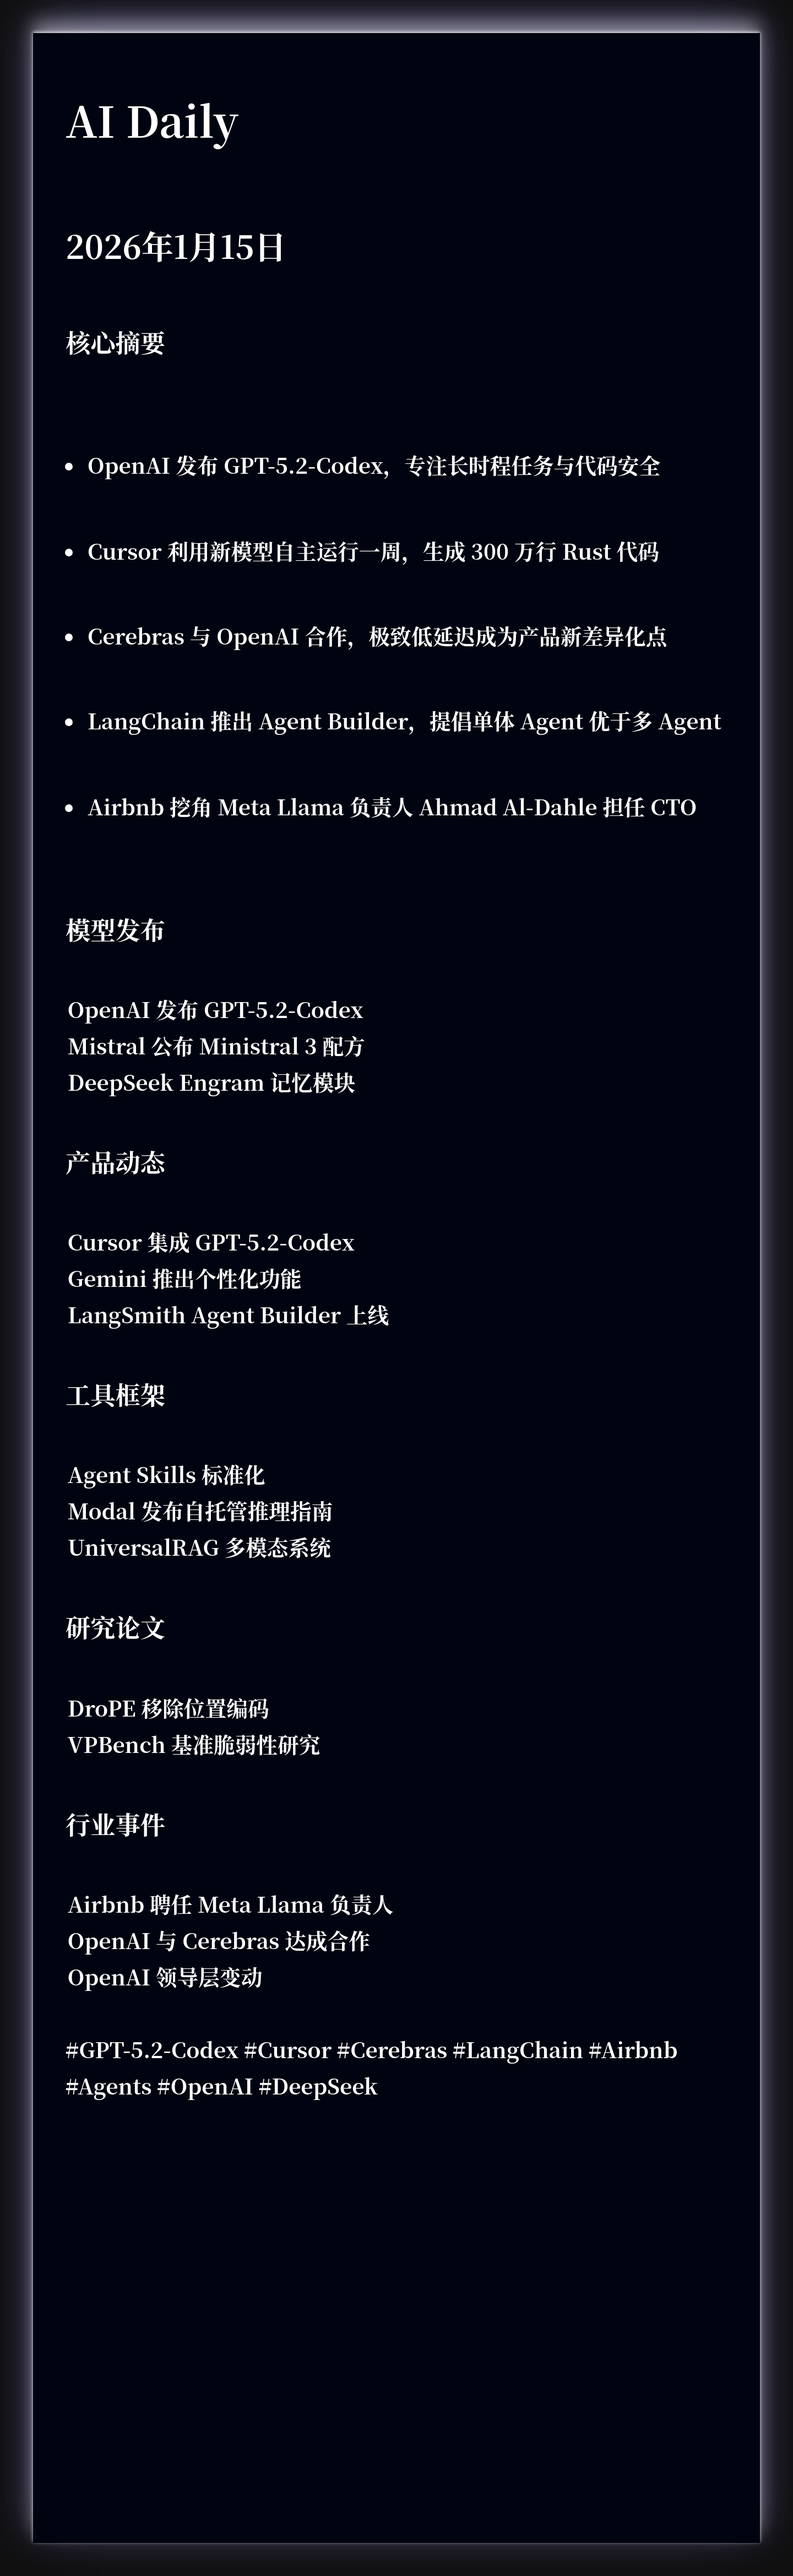
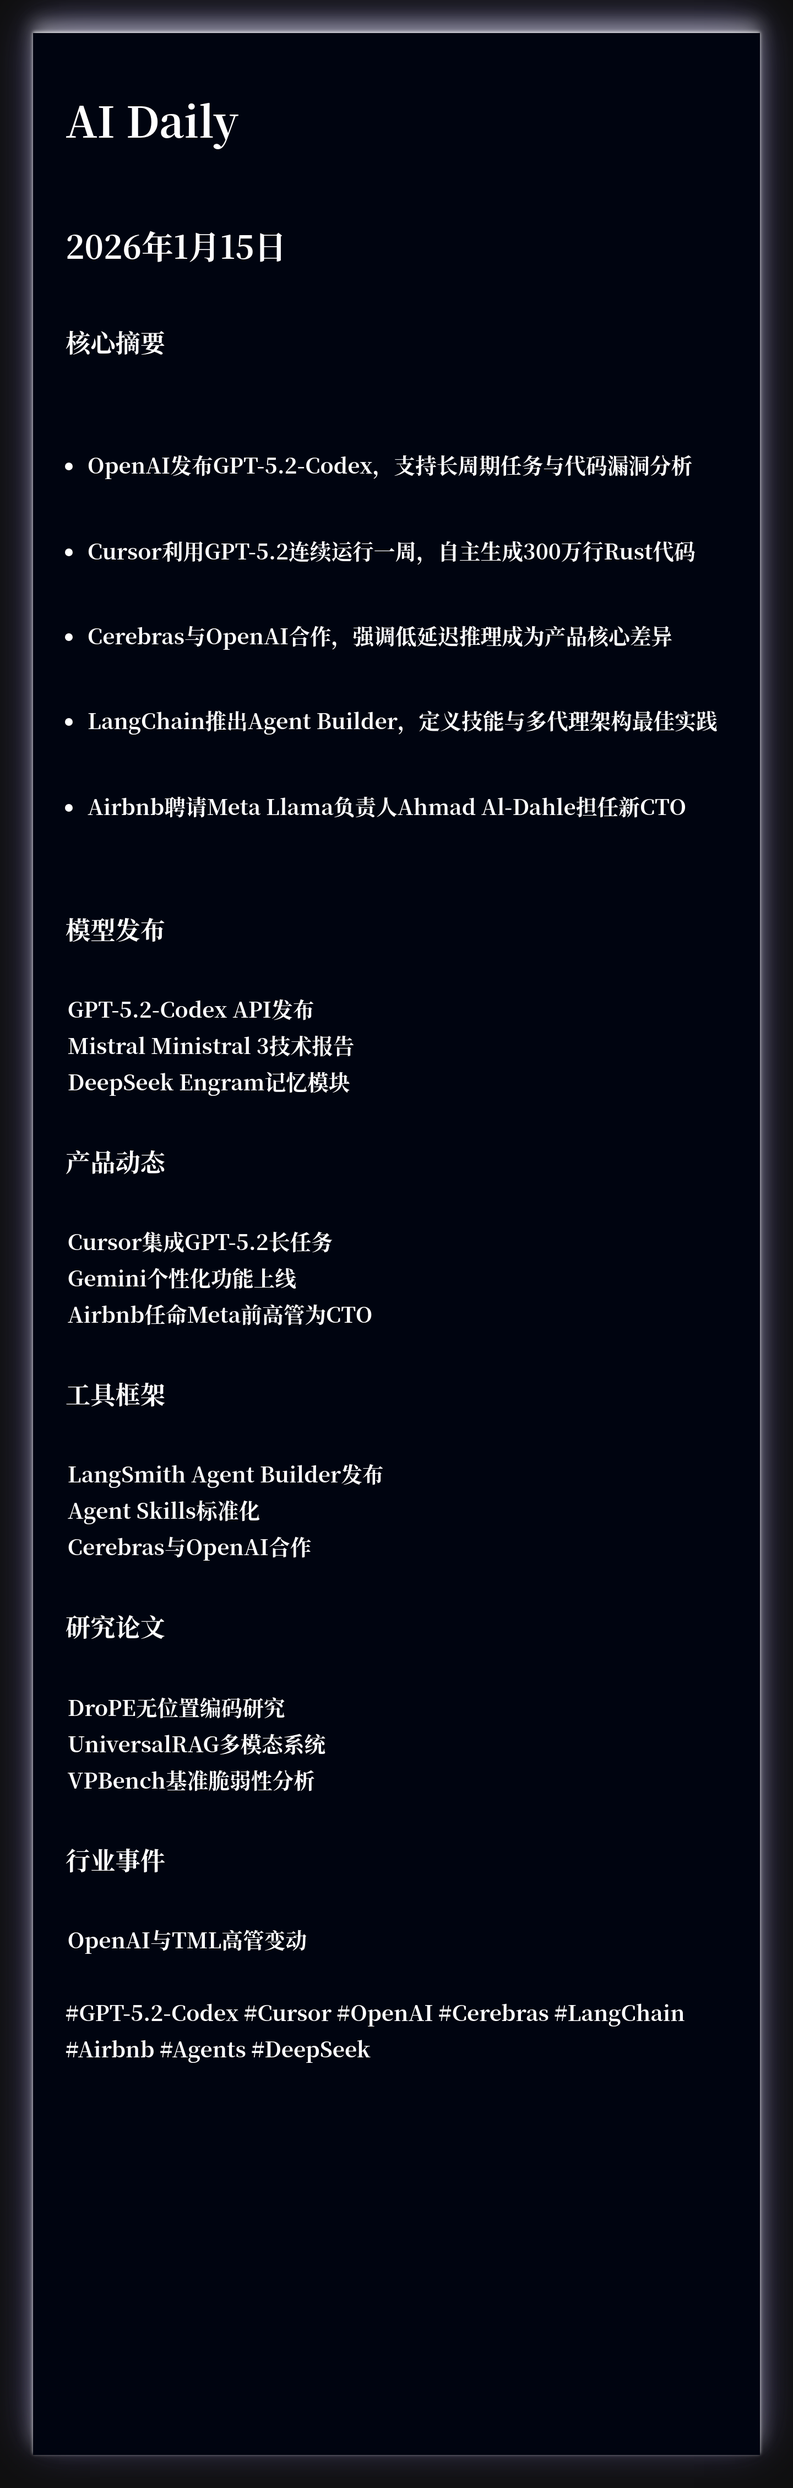
🤖 Auto update AI Daily - {{ date }} e7960c343df8786eb39658cc6d73769d09f1d22b

diff --git a/2026-01-15.html b/2026-01-15.html
@@ -5,7 +5,7 @@
     <meta name="viewport" content="width=device-width, initial-scale=1.0">
     <title>AI Daily · 2026年1月15日 星期四</title>
     <meta name="description" content="每日 AI 前沿资讯，智能分类，快速掌握核心动态">
-    <meta name="keywords" content="GPT-5.2-Codex, Cursor, Cerebras, LangChain, Airbnb, Agents, OpenAI, DeepSeek, Mistral, AI, 人工智能, 机器学习, 深度学习, 资讯, 日报">
+    <meta name="keywords" content="GPT-5.2-Codex, Cursor, OpenAI, Cerebras, LangChain, Airbnb, Agents, DeepSeek, Mistral, Gemini, AI, 人工智能, 机器学习, 深度学习, 资讯, 日报">
     <link rel="stylesheet" href="css/styles.css">
 </head>
 <body data-theme="blue">
@@ -24,11 +24,11 @@
             <section class="summary-card">
                 <h2 class="section-title">📌 今日核心摘要</h2>
                 <ul class="summary-list">
-                <li class="summary-item">OpenAI 发布 GPT-5.2-Codex，专注长时程任务与代码安全</li>
-                <li class="summary-item">Cursor 利用新模型自主运行一周，生成 300 万行 Rust 代码</li>
-                <li class="summary-item">Cerebras 与 OpenAI 合作，极致低延迟成为产品新差异化点</li>
-                <li class="summary-item">LangChain 推出 Agent Builder，提倡单体 Agent 优于多 Agent</li>
-                <li class="summary-item">Airbnb 挖角 Meta Llama 负责人 Ahmad Al-Dahle 担任 CTO</li>
+                <li class="summary-item">OpenAI发布GPT-5.2-Codex，支持长周期任务与代码漏洞分析</li>
+                <li class="summary-item">Cursor利用GPT-5.2连续运行一周，自主生成300万行Rust代码</li>
+                <li class="summary-item">Cerebras与OpenAI合作，强调低延迟推理成为产品核心差异</li>
+                <li class="summary-item">LangChain推出Agent Builder，定义技能与多代理架构最佳实践</li>
+                <li class="summary-item">Airbnb聘请Meta Llama负责人Ahmad Al-Dahle担任新CTO</li>
                 </ul>
             </section>
 
@@ -43,29 +43,29 @@
 
                 <article class="news-card">
                     <div class="news-card-header">
-                        <h3 class="news-title">OpenAI 发布 GPT-5.2-Codex</h3>
+                        <h3 class="news-title">GPT-5.2-Codex API发布</h3>
                         <a href="https://twitter.com/OpenAIDevs/status/2011499597169115219" class="item-link" target="_blank" rel="noopener">详情</a>
                     </div>
-                    <p class="news-summary">定位最强代码模型，支持长时程任务，具备最强代码漏洞理解能力</p>
-                    <div class="item-tags"><span class="tag">#OpenAI</span> <span class="tag">#GPT-5.2</span> <span class="tag">#Codex</span></div>
+                    <p class="news-summary">OpenAI推出最强代码模型，专攻长周期任务与漏洞挖掘，集成至Responses API</p>
+                    <div class="item-tags"><span class="tag">#OpenAI</span> <span class="tag">#GPT-5.2</span> <span class="tag">#Codex</span> <span class="tag">#API</span></div>
                 </article>
 
                 <article class="news-card">
                     <div class="news-card-header">
-                        <h3 class="news-title">Mistral 公布 Ministral 3 配方</h3>
-                        <a href="https://twitter.com/eliebakouch/status/2011548952676499480" class="item-link" target="_blank" rel="noopener">详情</a>
+                        <h3 class="news-title">Mistral Ministral 3技术报告</h3>
+                        <a href="https://twitter.com/qtnx_/status/2011510403550024087" class="item-link" target="_blank" rel="noopener">详情</a>
                     </div>
-                    <p class="news-summary">强调剪枝与蒸馏技术，包含具体的层剪枝和隐藏维剪枝启发式方法</p>
-                    <div class="item-tags"><span class="tag">#Mistral</span> <span class="tag">#Ministral</span> <span class="tag">#剪枝</span></div>
+                    <p class="news-summary">公开小模型配方，强调剪枝与蒸馏技术及具体剪枝启发式方法</p>
+                    <div class="item-tags"><span class="tag">#Mistral</span> <span class="tag">#Ministral</span> <span class="tag">#剪枝</span> <span class="tag">#蒸馏</span></div>
                 </article>
 
                 <article class="news-card">
                     <div class="news-card-header">
-                        <h3 class="news-title">DeepSeek Engram 记忆模块</h3>
+                        <h3 class="news-title">DeepSeek Engram记忆模块</h3>
                         <a href="https://twitter.com/LiorOnAI/status/2011468534887469448" class="item-link" target="_blank" rel="noopener">详情</a>
                     </div>
-                    <p class="news-summary">提出 MoE 计算与 Engram 稀疏存储分离，实现 O(1) 复杂度的 n-gram 检索</p>
-                    <div class="item-tags"><span class="tag">#DeepSeek</span> <span class="tag">#Engram</span> <span class="tag">#Memory</span></div>
+                    <p class="news-summary">提出MoE计算与Engram存储分离架构，实现基于哈希的O(1)查找</p>
+                    <div class="item-tags"><span class="tag">#DeepSeek</span> <span class="tag">#Engram</span> <span class="tag">#Memory</span> <span class="tag">#MoE</span></div>
                 </article>
 
                 </div>
@@ -81,29 +81,29 @@
 
                 <article class="news-card">
                     <div class="news-card-header">
-                        <h3 class="news-title">Cursor 集成 GPT-5.2-Codex</h3>
+                        <h3 class="news-title">Cursor集成GPT-5.2长任务</h3>
                         <a href="https://twitter.com/cursor_ai/status/2011500027945033904" class="item-link" target="_blank" rel="noopener">详情</a>
                     </div>
-                    <p class="news-summary">成功利用新模型自主运行一周，生成 300 万行 Rust 代码构建浏览器</p>
-                    <div class="item-tags"><span class="tag">#Cursor</span> <span class="tag">#OpenAI</span> <span class="tag">#Agents</span></div>
+                    <p class="news-summary">定位为长周期任务的前沿模型，展示自主运行一周构建浏览器的案例</p>
+                    <div class="item-tags"><span class="tag">#Cursor</span> <span class="tag">#IDE</span> <span class="tag">#Agents</span></div>
                 </article>
 
                 <article class="news-card">
                     <div class="news-card-header">
-                        <h3 class="news-title">Gemini 推出个性化功能</h3>
+                        <h3 class="news-title">Gemini个性化功能上线</h3>
                         <a href="https://twitter.com/Google/status/2011473056921706852" class="item-link" target="_blank" rel="noopener">详情</a>
                     </div>
-                    <p class="news-summary">连接 Gmail、Photos 等应用数据，强调用户选择加入与隐私控制</p>
+                    <p class="news-summary">连接Gmail、Photos等应用数据，提供个性化智能体验并强调隐私控制</p>
                     <div class="item-tags"><span class="tag">#Google</span> <span class="tag">#Gemini</span> <span class="tag">#Personalization</span></div>
                 </article>
 
                 <article class="news-card">
                     <div class="news-card-header">
-                        <h3 class="news-title">LangSmith Agent Builder 上线</h3>
-                        <a href="https://twitter.com/LangChain/status/2011501888735494184" class="item-link" target="_blank" rel="noopener">详情</a>
+                        <h3 class="news-title">Airbnb任命Meta前高管为CTO</h3>
+                        <a href="https://twitter.com/Ahmad_Al_Dahle/status/2011440460821320056" class="item-link" target="_blank" rel="noopener">详情</a>
                     </div>
-                    <p class="news-summary">将 Agent 视为文件系统，支持 Skills/MCP，提供无代码构建 Slack 代理</p>
-                    <div class="item-tags"><span class="tag">#LangChain</span> <span class="tag">#Agents</span> <span class="tag">#No-code</span></div>
+                    <p class="news-summary">Llama负责人Ahmad Al-Dahle加入Airbnb，负责推动先进模型能力应用</p>
+                    <div class="item-tags"><span class="tag">#Airbnb</span> <span class="tag">#Meta</span> <span class="tag">#CTO</span> <span class="tag">#Hiring</span></div>
                 </article>
 
                 </div>
@@ -119,29 +119,29 @@
 
                 <article class="news-card">
                     <div class="news-card-header">
-                        <h3 class="news-title">Agent Skills 标准化</h3>
+                        <h3 class="news-title">LangSmith Agent Builder发布</h3>
+                        <a href="https://twitter.com/LangChain/status/2011501888735494184" class="item-link" target="_blank" rel="noopener">详情</a>
+                    </div>
+                    <p class="news-summary">将代理视为文件系统，支持技能、MCP和子代理，建议优先使用单代理模式</p>
+                    <div class="item-tags"><span class="tag">#LangChain</span> <span class="tag">#Agents</span> <span class="tag">#Builder</span></div>
+                </article>
+
+                <article class="news-card">
+                    <div class="news-card-header">
+                        <h3 class="news-title">Agent Skills标准化</h3>
                         <a href="https://twitter.com/_philschmid/status/2011345054343053370" class="item-link" target="_blank" rel="noopener">详情</a>
                     </div>
-                    <p class="news-summary">Phil Schmid 推出标准化技能文件夹，兼容 Gemini/Claude/OpenCode 生态</p>
-                    <div class="item-tags"><span class="tag">#Skills</span> <span class="tag">#Interoperability</span> <span class="tag">#CLI</span></div>
+                    <p class="news-summary">推出标准化技能文件夹结构，兼容Gemini CLI、Claude Code等生态系统</p>
+                    <div class="item-tags"><span class="tag">#Skills</span> <span class="tag">#MCP</span> <span class="tag">#Standardization</span></div>
                 </article>
 
                 <article class="news-card">
                     <div class="news-card-header">
-                        <h3 class="news-title">Modal 发布自托管推理指南</h3>
-                        <a href="https://twitter.com/charles_irl/status/2011484220032762114" class="item-link" target="_blank" rel="noopener">详情</a>
+                        <h3 class="news-title">Cerebras与OpenAI合作</h3>
+                        <a href="https://twitter.com/cerebras/status/2011531740804964855" class="item-link" target="_blank" rel="noopener">详情</a>
                     </div>
-                    <p class="news-summary">论证自托管推理在经济学上可匹敌 API，包含 2 万 GPU 集群运维经验</p>
-                    <div class="item-tags"><span class="tag">#Modal</span> <span class="tag">#Inference</span> <span class="tag">#Ops</span></div>
-                </article>
-
-                <article class="news-card">
-                    <div class="news-card-header">
-                        <h3 class="news-title">UniversalRAG 多模态系统</h3>
-                        <a href="https://twitter.com/omarsar0/status/2011442693134754243" class="item-link" target="_blank" rel="noopener">详情</a>
-                    </div>
-                    <p class="news-summary">提出模态感知路由，避免强制单一嵌入空间，支持跨模态与粒度检索</p>
-                    <div class="item-tags"><span class="tag">#RAG</span> <span class="tag">#Multimodal</span> <span class="tag">#Retrieval</span></div>
+                    <p class="news-summary">聚焦低延迟推理，Cerebras在GLM-4.7基准测试中实现1445 tokens/s速度</p>
+                    <div class="item-tags"><span class="tag">#Cerebras</span> <span class="tag">#Inference</span> <span class="tag">#Infrastructure</span></div>
                 </article>
 
                 </div>
@@ -151,25 +151,34 @@
                 <div class="category-header">
                     <span class="category-icon">📚</span>
                     <h2 class="category-title">研究论文</h2>
-                    <span class="category-count">2</span>
+                    <span class="category-count">3</span>
                 </div>
                 <div class="news-grid">
 
                 <article class="news-card">
                     <div class="news-card-header">
-                        <h3 class="news-title">DroPE 移除位置编码</h3>
+                        <h3 class="news-title">DroPE无位置编码研究</h3>
                         <a href="https://twitter.com/gabriberton/status/2011326182986564090" class="item-link" target="_blank" rel="noopener">详情</a>
                     </div>
-                    <p class="news-summary">研究显示移除 RoPE 并微调可在标准数据集保持性能并改善长上下文行为</p>
+                    <p class="news-summary">提出移除RoPE并在无位置编码下微调的简单配方，改善长上下文行为</p>
                     <div class="item-tags"><span class="tag">#RoPE</span> <span class="tag">#Long Context</span> <span class="tag">#Fine-tuning</span></div>
                 </article>
 
                 <article class="news-card">
                     <div class="news-card-header">
-                        <h3 class="news-title">VPBench 基准脆弱性研究</h3>
+                        <h3 class="news-title">UniversalRAG多模态系统</h3>
+                        <a href="https://twitter.com/omarsar0/status/2011442693134754243" class="item-link" target="_blank" rel="noopener">详情</a>
+                    </div>
+                    <p class="news-summary">提出模态感知路由，避免强制单一嵌入空间，在10个基准测试中获胜</p>
+                    <div class="item-tags"><span class="tag">#RAG</span> <span class="tag">#Multimodal</span> <span class="tag">#Retrieval</span></div>
+                </article>
+
+                <article class="news-card">
+                    <div class="news-card-header">
+                        <h3 class="news-title">VPBench基准脆弱性分析</h3>
                         <a href="https://twitter.com/lisabdunlap/status/2011521499182875116" class="item-link" target="_blank" rel="noopener">详情</a>
                     </div>
-                    <p class="news-summary">指出 VLM 排行榜易受微小视觉变化（如红蓝标记）影响，质疑基准鲁棒性</p>
+                    <p class="news-summary">研究表明微小的视觉变化（如红蓝标记）即可重排VLM排行榜</p>
                     <div class="item-tags"><span class="tag">#Benchmark</span> <span class="tag">#VLM</span> <span class="tag">#Evaluation</span></div>
                 </article>
 
@@ -180,35 +189,17 @@
                 <div class="category-header">
                     <span class="category-icon">🏆</span>
                     <h2 class="category-title">行业事件</h2>
-                    <span class="category-count">3</span>
+                    <span class="category-count">1</span>
                 </div>
                 <div class="news-grid">
 
                 <article class="news-card">
                     <div class="news-card-header">
-                        <h3 class="news-title">Airbnb 聘任 Meta Llama 负责人</h3>
-                        <a href="https://twitter.com/Ahmad_Al_Dahle/status/2011440460821320056" class="item-link" target="_blank" rel="noopener">详情</a>
-                    </div>
-                    <p class="news-summary">Ahmad Al-Dahle 离开 Meta 加入 Airbnb 担任 CTO，曾主导 Llama 开源战略</p>
-                    <div class="item-tags"><span class="tag">#Airbnb</span> <span class="tag">#Meta</span> <span class="tag">#CTO</span></div>
-                </article>
-
-                <article class="news-card">
-                    <div class="news-card-header">
-                        <h3 class="news-title">OpenAI 与 Cerebras 达成合作</h3>
-                        <a href="https://twitter.com/cerebras/status/2011531740804964855" class="item-link" target="_blank" rel="noopener">详情</a>
-                    </div>
-                    <p class="news-summary">聚焦于低延迟和高吞吐量推理，旨在提升 ChatGPT 体验并应对竞争</p>
-                    <div class="item-tags"><span class="tag">#OpenAI</span> <span class="tag">#Cerebras</span> <span class="tag">#Partnership</span></div>
-                </article>
-
-                <article class="news-card">
-                    <div class="news-card-header">
-                        <h3 class="news-title">OpenAI 领导层变动</h3>
+                        <h3 class="news-title">OpenAI与TML高管变动</h3>
                         <a href="https://twitter.com/miramurati/status/2011577319295692801" class="item-link" target="_blank" rel="noopener">详情</a>
                     </div>
-                    <p class="news-summary">Barret Zoph 离开 Thinking Machines Lab，Soumith Chintala 接任 CTO</p>
-                    <div class="item-tags"><span class="tag">#OpenAI</span> <span class="tag">#Leadership</span> <span class="tag">#TML</span></div>
+                    <p class="news-summary">Barret Zoph离开Thinking Machines Lab，随后与Luke Metz等人回归OpenAI</p>
+                    <div class="item-tags"><span class="tag">#OpenAI</span> <span class="tag">#Leadership</span> <span class="tag">#Churn</span></div>
                 </article>
 
                 </div>
@@ -216,7 +207,7 @@
 
 
         <footer class="keywords-footer">
-            <p>#关键词: GPT-5.2-Codex | Cursor | Cerebras | LangChain | Airbnb | Agents | OpenAI | DeepSeek | Mistral</p>
+            <p>#关键词: GPT-5.2-Codex | Cursor | OpenAI | Cerebras | LangChain | Airbnb | Agents | DeepSeek | Mistral | Gemini</p>
         </footer>
 
         </main>

diff --git a/xiaohongshu/xhs-2026-01-15.html b/xiaohongshu/xhs-2026-01-15.html
@@ -318,7 +318,7 @@
                 <div class="title-section">
                     <div class="main-title">GPT · OpenAI</div>
                     <div class="divider"></div>
-                    <div class="subtitle">OpenAI 发布 GPT-5.2-Codex，专...</div>
+                    <div class="subtitle">OpenAI发布GPT-5.2-Codex，支持长...</div>
 
                     <!-- 亮点 -->
                     <div class="highlights">
@@ -329,7 +329,7 @@
                 <!-- 底部区域 -->
                 <div class="bottom-section">
                     <div class="keywords">
-                        <span class="keyword-tag">#GPT-5.2-Codex</span><span class="keyword-tag">#Cursor</span><span class="keyword-tag">#Cerebras</span><span class="keyword-tag">#LangChain</span><span class="keyword-tag">#Airbnb</span>
+                        <span class="keyword-tag">#GPT-5.2-Codex</span><span class="keyword-tag">#Cursor</span><span class="keyword-tag">#OpenAI</span><span class="keyword-tag">#Cerebras</span><span class="keyword-tag">#LangChain</span>
                     </div>
                     <div class="account-info">
                         <div class="account-name">极客杰尼</div>

diff --git a/index.html b/index.html
@@ -29,7 +29,7 @@
                         <span class="entry-date">2026年1月15日 星期四</span>
                         <span class="entry-arrow">→</span>
                     </div>
-                    <p class="entry-summary">OpenAI 发布 GPT-5.2-Codex，专注长时程任务与代码安全</p>
+                    <p class="entry-summary">OpenAI发布GPT-5.2-Codex，支持长周期任务与代码漏洞分析</p>
                 </a>
             </article>
 
